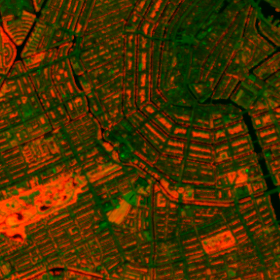
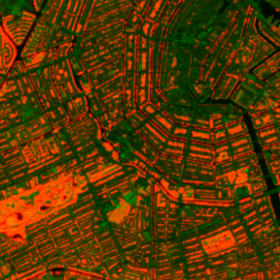
fix(cities): Amsterdam surface composite uses scenes with the sun at least 40 degrees up
A per-city sun-elevation floor (Area.min_sun_elevation_deg, default None = Kolkata's and Bengaluru's selection unchanged) filters scenes before the per-month pick. 28 of 30 candidates survive 40 deg, 27 readable. albedo 0.0942 -> 0.1067, FVC 0.2947 -> 0.3503, cities.ts veg 0.295 -> 0.350. Composite cache is keyed by the floor. (Audit F5)

diff --git a/src/data/cities.ts b/src/data/cities.ts
@@ -126,8 +126,9 @@ const BENGALURU_WARDS: readonly WardRecord[] = [
 /**
  * AMSTERDAM, third city, geometry tier (docs: research/new-cities/PLAN-amsterdam-tokyo.md §2).
  *
- * `veg` IS MEASURED (Task A8): 0.295 is the mean fractional vegetation cover of the
- * exported Sentinel-2 raster (surface-meta.json `fvc_mean` 0.2947, 25 scenes 2021-2025),
+ * `veg` IS MEASURED (Task A8): 0.350 is the mean fractional vegetation cover of the
+ * exported Sentinel-2 raster (surface-meta.json `fvc_mean` 0.3503, 27 scenes 2021-2025 with the sun >= 40 degrees; the first
+ * all-season composite read 0.295, depressed by leaf-off and shadowed winter scenes),
  * and tests/unit/amsterdam-artefacts.test.mjs holds the two equal to three places.
  * `swatch` is a neutral stand-in for the founder's visual review (plan A13).
  *
@@ -143,7 +144,7 @@ const BENGALURU_WARDS: readonly WardRecord[] = [
 const AMSTERDAM_WARDS: readonly WardRecord[] = [
   { id: 'canal-ring', name: 'Canal <em>Ring</em>', zone: 'Canal Belt · Vondelpark',
     body: 'Gemeente Amsterdam (stadsdelen Centrum, Zuid, West)',
-    lat: 52.3640, lon: 4.8850, veg: 0.295, footprintM: 2800,
+    lat: 52.3640, lon: 4.8850, veg: 0.350, footprintM: 2800,
     swatch: 'radial-gradient(circle at 40% 40%,#6fcad6,#9fb98a 58%,#093a3e)' },
 ];
 

diff --git a/scripts/_sentinel.py b/scripts/_sentinel.py
@@ -98,12 +98,46 @@ def _covers_ward(bbox: list[float] | None, lat: float, lon: float, footprint_m: 
             and bbox[2] >= lon + dlon and bbox[3] >= lat + dlat)
 
 
-def search(lat: float, lon: float, year: int, footprint_m: int) -> list[dict[str, Any]]:
+def sun_high_enough(feat: dict[str, Any], min_sun_elevation_deg: float | None) -> bool:
+    """Is the scene's sun at least `min_sun_elevation_deg` above the horizon (STAC `view:sun_elevation`)?
+
+    None means no filter (Kolkata, Bengaluru: every scene qualifies, as before). A scene that does
+    not STATE its sun elevation fails the filter: a gate that cannot read its input must not pass.
+    """
+    if min_sun_elevation_deg is None:
+        return True
+    elev = feat.get("properties", {}).get("view:sun_elevation")
+    return isinstance(elev, (int, float)) and not isinstance(elev, bool) and float(elev) >= min_sun_elevation_deg
+
+
+def spread_across_months(feats: list[dict[str, Any]]) -> list[dict[str, Any]]:
+    """The lowest-cloud scene of each month, thinned to at most SCENES_PER_YEAR across the calendar.
+
+    spread across months rather than taking the N cleanest, which would all
+    cluster in the dry season and reintroduce exactly the bias we are avoiding
+    """
+    by_month = defaultdict(list)
+    for f in feats:
+        by_month[f["properties"]["datetime"][5:7]].append(f)
+    picked = []
+    for mth in sorted(by_month):
+        best = min(by_month[mth], key=lambda f: f["properties"].get("eo:cloud_cover", 100))
+        picked.append(best)
+    step = max(1, len(picked) // SCENES_PER_YEAR)
+    return picked[::step][:SCENES_PER_YEAR]
+
+
+def search(lat: float, lon: float, year: int, footprint_m: int,
+           min_sun_elevation_deg: float | None = None) -> list[dict[str, Any]]:
     """Lowest-cloud scenes for one year, spread across the calendar.
 
     `footprint_m` has no default for the reason the read path has none, plus a
     second: it is what decides whether a returned scene actually COVERS the ward
     or merely touches the search box.
+
+    `min_sun_elevation_deg` (default None = every scene, Kolkata's and Bengaluru's selection
+    exactly) drops scenes shot with the sun low BEFORE the per-month pick, so a winter month
+    with only low-sun scenes is skipped rather than filled by one.
     """
     # A fixed box is correct here and does not need to scale: any scene that
     # covers the ward necessarily intersects a box that also contains the ward,
@@ -128,20 +162,10 @@ def search(lat: float, lon: float, year: int, footprint_m: int) -> list[dict[str
 
     # Drop scenes that only clip the ward BEFORE the per-month pick, not after:
     # picking first would let a clipped scene win its month on cloud cover and
-    # then be discarded, losing the month entirely.
-    feats = [f for f in feats if _covers_ward(f.get("bbox"), lat, lon, footprint_m)]
-
-    # spread across months rather than taking the N cleanest, which would all
-    # cluster in the dry season and reintroduce exactly the bias we are avoiding
-    by_month = defaultdict(list)
-    for f in feats:
-        by_month[f["properties"]["datetime"][5:7]].append(f)
-    picked = []
-    for mth in sorted(by_month):
-        best = min(by_month[mth], key=lambda f: f["properties"].get("eo:cloud_cover", 100))
-        picked.append(best)
-    step = max(1, len(picked) // SCENES_PER_YEAR)
-    return picked[::step][:SCENES_PER_YEAR]
+    # then be discarded, losing the month entirely. The sun filter works the same way.
+    feats = [f for f in feats if _covers_ward(f.get("bbox"), lat, lon, footprint_m)
+             and sun_high_enough(f, min_sun_elevation_deg)]
+    return spread_across_months(feats)
 
 
 # Sentinel-2 mixes resolutions: blue/red/nir are 10 m, the SWIR bands 20 m. Read
@@ -314,6 +338,21 @@ def _self_test() -> None:
     # the same box that HOLDS a 1400 m ward CLIPS a 2800 m one — the whole point
     assert _covers_ward([77.59, 12.965, 77.615, 12.986], lat_b, lon_b, 1400)
     assert not _covers_ward([77.59, 12.965, 77.615, 12.986], lat_b, lon_b, 2800)
+
+    # SUN-ELEVATION FLOOR: None keeps everything; a number drops low-sun scenes; a scene that does not
+    # state its sun elevation cannot pass a floor.
+    lo, hi = {"properties": {"view:sun_elevation": 14.5}}, {"properties": {"view:sun_elevation": 52.0}}
+    assert sun_high_enough(lo, None) and sun_high_enough(hi, None) and sun_high_enough({}, None)
+    assert not sun_high_enough(lo, 35.0) and sun_high_enough(hi, 35.0)
+    assert sun_high_enough({"properties": {"view:sun_elevation": 35.0}}, 35.0), "the floor is inclusive"
+    assert not sun_high_enough({"properties": {}}, 35.0), "a scene with no stated elevation fails a floor"
+    assert not sun_high_enough({"properties": {"view:sun_elevation": True}}, 0.0), "a bool is not an angle"
+    def mk(m: int, c: float) -> dict[str, Any]:
+        return {"properties": {"datetime": f"2024-{m:02d}-15T10:30:00Z", "eo:cloud_cover": c}}
+    twelve = [mk(m, 5.0) for m in range(1, 13)]
+    assert [f["properties"]["datetime"][5:7] for f in spread_across_months(twelve)] == ["01", "03", "05", "07", "09", "11"], \
+        "the unfiltered pick is the original every-second-month thinning"
+    assert [f["properties"]["datetime"][5:7] for f in spread_across_months(twelve[4:8])] == ["05", "06", "07", "08"]
 
     for gone in ("GRID", "FOOTPRINT_M"):
         assert gone not in globals(), f"{gone} is back as a module constant"

diff --git a/scripts/export-surface-rasters.py b/scripts/export-surface-rasters.py
@@ -140,8 +140,18 @@ def surface_wards() -> dict[str, _types.Ward]:
     return wards
 
 
+def sun_floor(ward_id: str) -> float | None:
+    """The scene-selection sun-elevation floor of a city after Bengaluru, else None (no filter).
+
+    Kolkata's and Bengaluru's wards are not in `_city.AREAS`, so they get None and the selection is
+    exactly what it always was (their committed rasters stay reproducible).
+    """
+    a = _city.AREAS.get(ward_id)
+    return None if a is None or a.min_sun_elevation_deg is None else float(a.min_sun_elevation_deg)
+
+
 def composite(ward: _types.Ward, years: list[int]) -> tuple[npt.NDArray[np.float32],
-                                                            npt.NDArray[np.float32]]:
+                                                            npt.NDArray[np.float32], int]:
     """Per-cell median NDVI and albedo across every usable scene in `years`.
 
     Median across scenes, per cell — the same reducer the ward scalar uses, just
@@ -155,17 +165,23 @@ def composite(ward: _types.Ward, years: list[int]) -> tuple[npt.NDArray[np.float
     # committed rasters were built under.
     stem = (ward.id if not _wardmask.has_polygon(ward.id) else
             f"{ward.id}-{ward.footprint_m}m-{ward.centre.lat:.6f}-{ward.centre.lon:.6f}")
+    floor = sun_floor(ward.id)
+    # A floor changes WHICH scenes are read, so it is part of the cache name: the unfiltered
+    # composite under the old name must never be served for a filtered build.
+    if floor is not None:
+        stem = f"{stem}-sun{floor:g}"
     key = os.path.join(COMPOSITE_CACHE, f"{stem}-{min(years)}-{max(years)}.npz")
     if os.path.exists(key):
         cached = np.load(key)
         print(f"    {ward.id}: composite from cache ({os.path.relpath(key, os.path.expanduser('~'))})")
-        return cached["ndvi"].astype(np.float32), cached["albedo"].astype(np.float32)
+        return (cached["ndvi"].astype(np.float32), cached["albedo"].astype(np.float32),
+                int(cached["scenes"]))
 
     lat, lon = ward.centre.lat, ward.centre.lon
     ndvis: list[npt.NDArray[np.float32]] = []
     albedos: list[npt.NDArray[np.float32]] = []
     for y in years:
-        for feat in search(lat, lon, y, ward.footprint_m):
+        for feat in search(lat, lon, y, ward.footprint_m, floor):
             got = scene_arrays(feat, lat, lon, ward.footprint_m)
             if got is None:
                 continue
@@ -181,7 +197,7 @@ def composite(ward: _types.Ward, years: list[int]) -> tuple[npt.NDArray[np.float
     ndvi_c = np.nanmedian(np.stack(ndvis), axis=0).astype(np.float32)
     albedo_c = np.nanmedian(np.stack(albedos), axis=0).astype(np.float32)
     np.savez_compressed(key, ndvi=ndvi_c, albedo=albedo_c, scenes=len(ndvis))
-    return ndvi_c, albedo_c
+    return ndvi_c, albedo_c, len(ndvis)
 
 
 def fill_gaps(a: npt.NDArray[np.float32], fallback: float) -> npt.NDArray[np.float32]:
@@ -320,7 +336,7 @@ def main() -> None:
 
         print(f"  {ward.id}  {ward.footprint_m} m → {n}×{n}"
               + ("" if targets is not None else "  (no DC-URS scalar — level is measured)"))
-        ndvi, albedo_raw = composite(ward, args.years)
+        ndvi, albedo_raw, n_scenes = composite(ward, args.years)
 
         # NDVI -> fractional vegetation cover, the same transform and the same
         # endpoints the ward scalar uses, so the two are the same quantity.
@@ -385,6 +401,10 @@ def main() -> None:
             }
             print(f"    fvc {veg_mean:.4f} measured (sd {fvc.std():.3f}) · "
                   f"albedo {alb_mean:.4f} measured (sd {albedo.std():.3f}) · {kb:.1f} KB")
+        floor = sun_floor(ward_id)
+        if floor is not None:
+            # Provenance for a city whose scenes were selected by sun height (Amsterdam audit F5).
+            entry |= {"sunElevationFloorDeg": floor, "scenes": n_scenes}
         meta["wards"][ward_id] = entry
 
         # A raster with no spatial variance is a constant, and a constant is what
